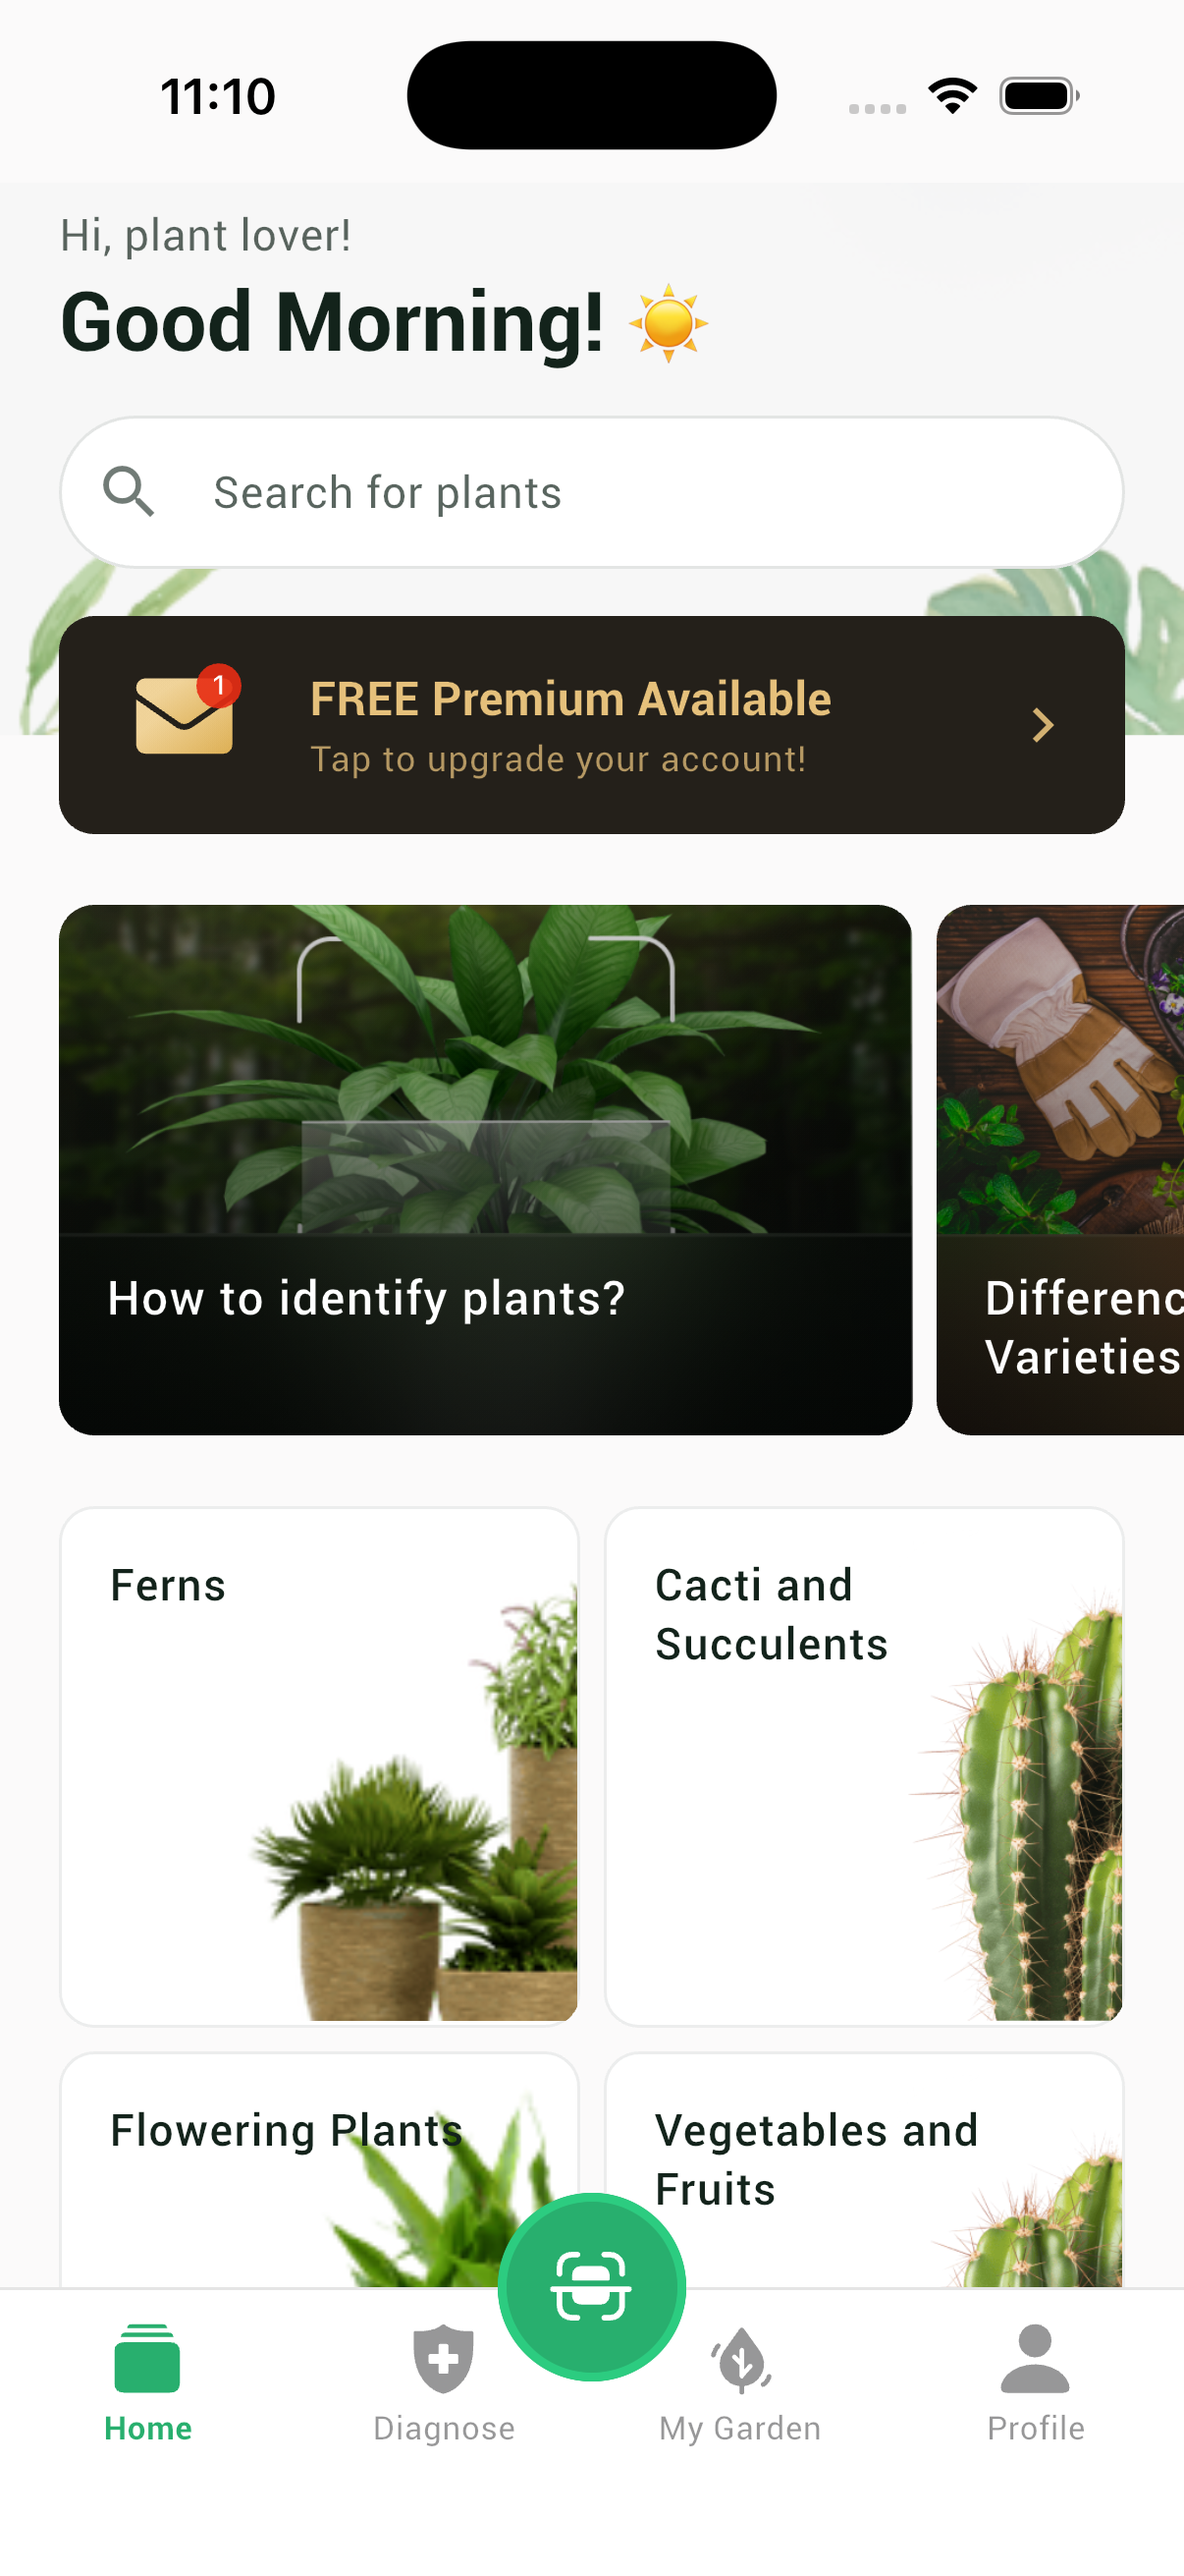
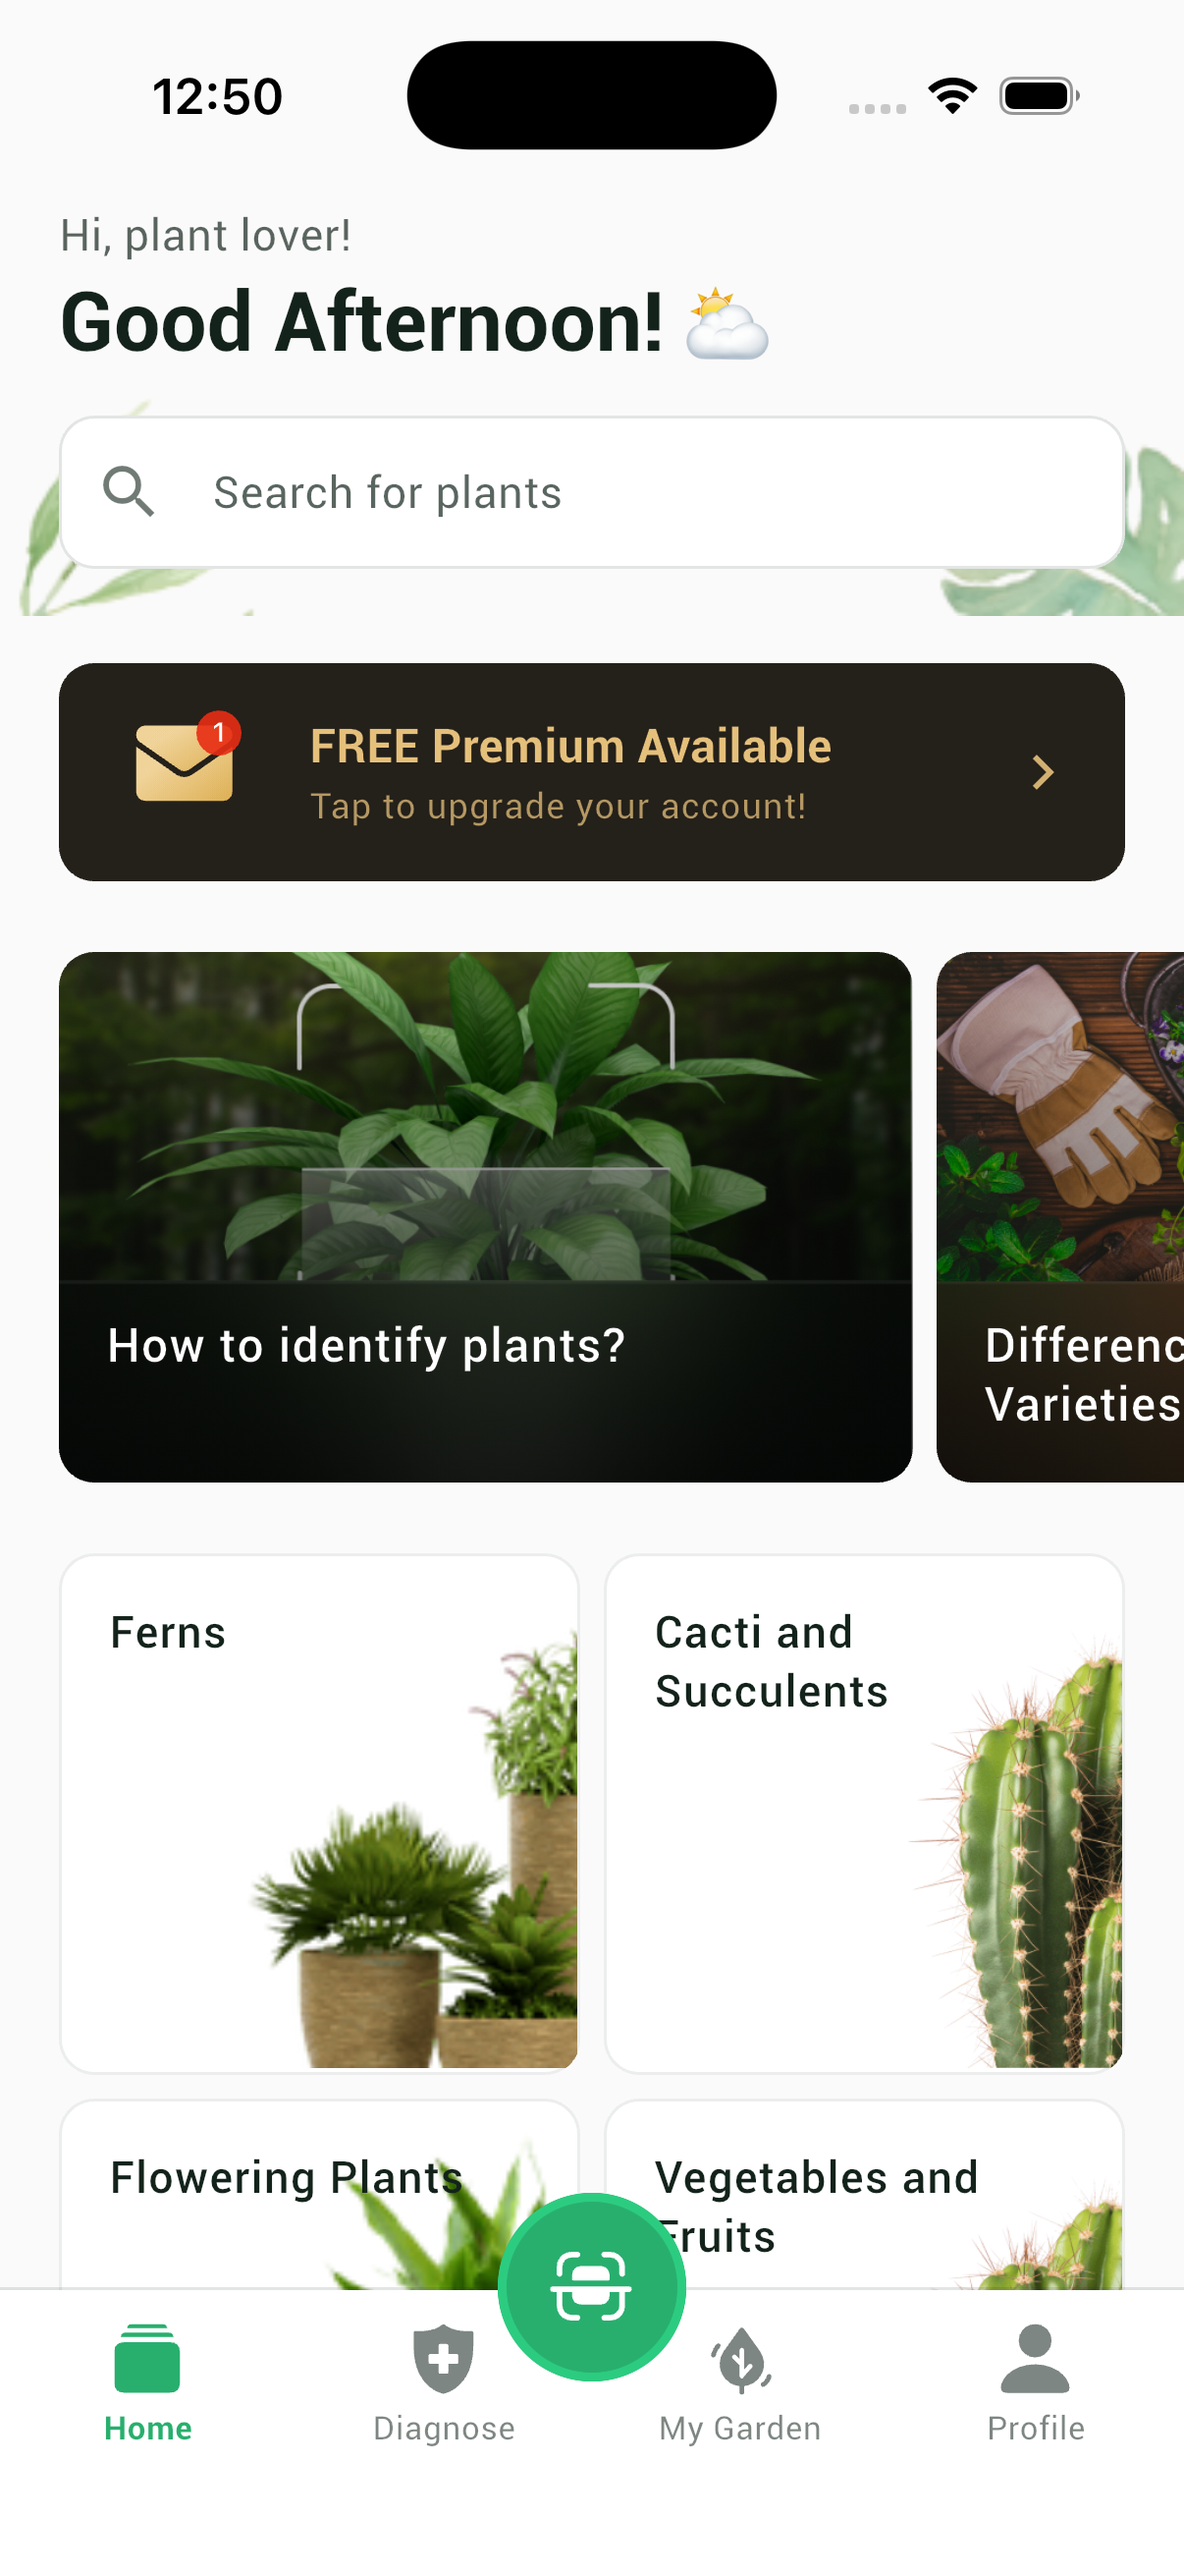
refactor: refine home interface layout and interactions

diff --git a/lib/features/home/presentation/widgets/home_header.dart b/lib/features/home/presentation/widgets/home_header.dart
@@ -22,9 +22,7 @@ class HomeHeader extends StatelessWidget {
     return Column(
       crossAxisAlignment: CrossAxisAlignment.stretch,
       children: [
-        _TopSection(greeting: _timeGreeting()),
-        const SizedBox(height: AppSpacing.item),
-        const _SearchBar(),
+        _AppBarSection(greeting: _timeGreeting()),
         const SizedBox(height: AppSpacing.item),
         const _PremiumBanner(),
         if (questions.isNotEmpty) ...[
@@ -54,8 +52,8 @@ class HomeHeader extends StatelessWidget {
   }
 }
 
-class _TopSection extends StatelessWidget {
-  const _TopSection({required this.greeting});
+class _AppBarSection extends StatelessWidget {
+  const _AppBarSection({required this.greeting});
 
   final ({String text, String emoji}) greeting;
 
@@ -64,16 +62,12 @@ class _TopSection extends StatelessWidget {
     final colors = context.appColors;
 
     return Stack(
-      clipBehavior: Clip.none,
       children: [
-        Positioned(
-          top: -8,
-          left: 0,
-          right: 0,
+        Positioned.fill(
           child: Image(
             image: Assets.images.home.appbar.provider(),
-            fit: BoxFit.fitWidth,
-            alignment: Alignment.topCenter,
+            fit: BoxFit.cover,
+            alignment: Alignment.bottomCenter,
           ),
         ),
         Padding(
@@ -81,9 +75,10 @@ class _TopSection extends StatelessWidget {
             AppSpacing.horizontal,
             AppSpacing.compact,
             AppSpacing.horizontal,
-            0,
+            AppSpacing.item,
           ),
           child: Column(
+            mainAxisSize: MainAxisSize.min,
             crossAxisAlignment: CrossAxisAlignment.start,
             children: [
               Text(
@@ -101,6 +96,8 @@ class _TopSection extends StatelessWidget {
                   color: colors.mainText,
                 ),
               ),
+              const SizedBox(height: AppSpacing.item),
+              const _SearchField(),
             ],
           ),
         ),
@@ -109,50 +106,41 @@ class _TopSection extends StatelessWidget {
   }
 }
 
-class _SearchBar extends StatelessWidget {
-  const _SearchBar();
+class _SearchField extends StatelessWidget {
+  const _SearchField();
 
   @override
   Widget build(BuildContext context) {
     final colors = context.appColors;
 
-    return Padding(
-      padding: AppSpacing.horizontalPadding,
-      child: TextField(
-        readOnly: true,
-        decoration: InputDecoration(
-          hintText: t.home.searchHint,
-          hintStyle: context.textTheme.bodyMedium?.copyWith(
-            color: colors.subText.withValues(alpha: 0.7),
-          ),
-          prefixIcon: Icon(
-            Icons.search,
-            color: colors.subText.withValues(alpha: 0.6),
-          ),
-          filled: true,
-          fillColor: colors.surface,
-          contentPadding: const EdgeInsets.symmetric(
-            horizontal: AppSpacing.item,
-            vertical: 14,
-          ),
-          border: OutlineInputBorder(
-            borderRadius: BorderRadius.circular(AppRadius.full),
-            borderSide: BorderSide(
-              color: colors.subText.withValues(alpha: 0.12),
-            ),
-          ),
-          enabledBorder: OutlineInputBorder(
-            borderRadius: BorderRadius.circular(AppRadius.full),
-            borderSide: BorderSide(
-              color: colors.subText.withValues(alpha: 0.12),
-            ),
-          ),
-          focusedBorder: OutlineInputBorder(
-            borderRadius: BorderRadius.circular(AppRadius.full),
-            borderSide: BorderSide(
-              color: colors.primary.withValues(alpha: 0.4),
-            ),
-          ),
+    return TextField(
+      readOnly: true,
+      decoration: InputDecoration(
+        hintText: t.home.searchHint,
+        hintStyle: context.textTheme.bodyMedium?.copyWith(
+          color: colors.subText.withValues(alpha: 0.7),
+        ),
+        prefixIcon: Icon(
+          Icons.search,
+          color: colors.subText.withValues(alpha: 0.6),
+        ),
+        filled: true,
+        fillColor: colors.surface,
+        contentPadding: const EdgeInsets.symmetric(
+          horizontal: AppSpacing.item,
+          vertical: 14,
+        ),
+        border: OutlineInputBorder(
+          borderRadius: BorderRadius.circular(AppRadius.r12),
+          borderSide: BorderSide(color: colors.subText.withValues(alpha: 0.12)),
+        ),
+        enabledBorder: OutlineInputBorder(
+          borderRadius: BorderRadius.circular(AppRadius.r12),
+          borderSide: BorderSide(color: colors.subText.withValues(alpha: 0.12)),
+        ),
+        focusedBorder: OutlineInputBorder(
+          borderRadius: BorderRadius.circular(AppRadius.r12),
+          borderSide: BorderSide(color: colors.primary.withValues(alpha: 0.4)),
         ),
       ),
     );
